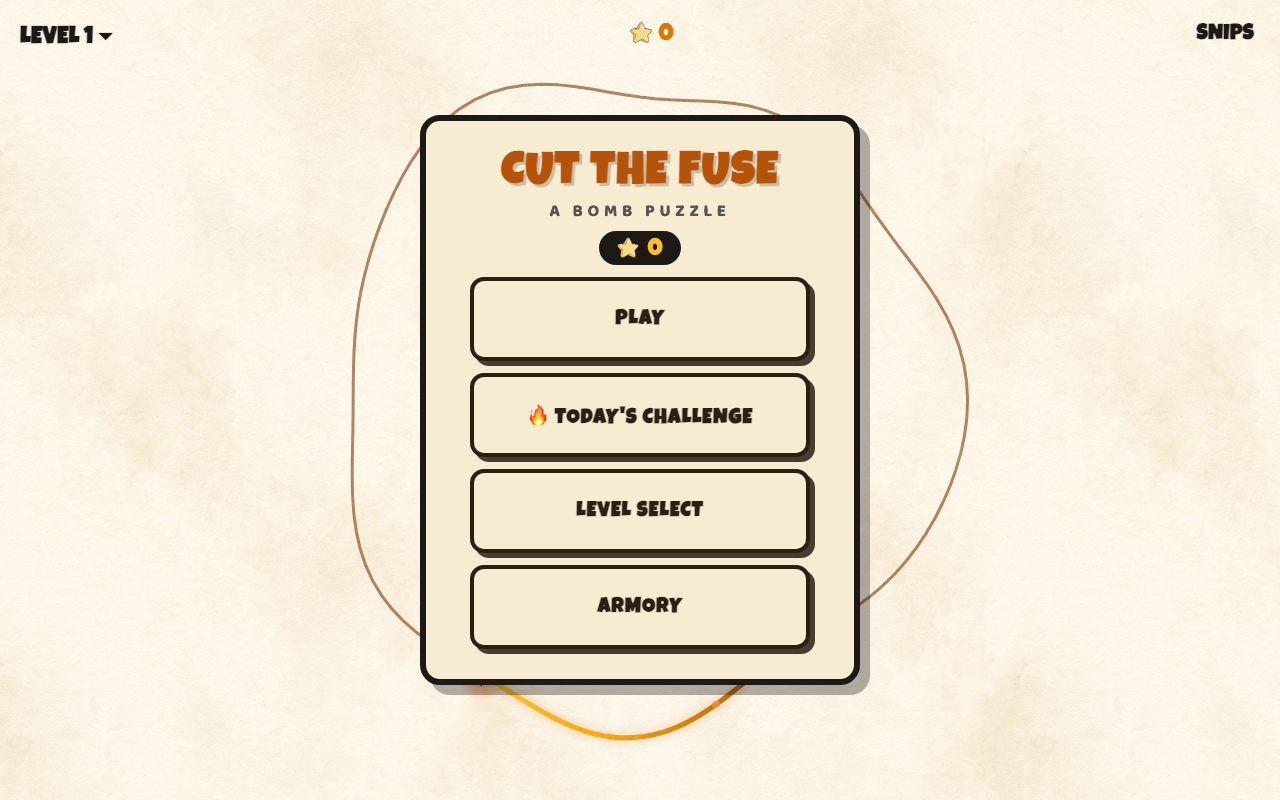
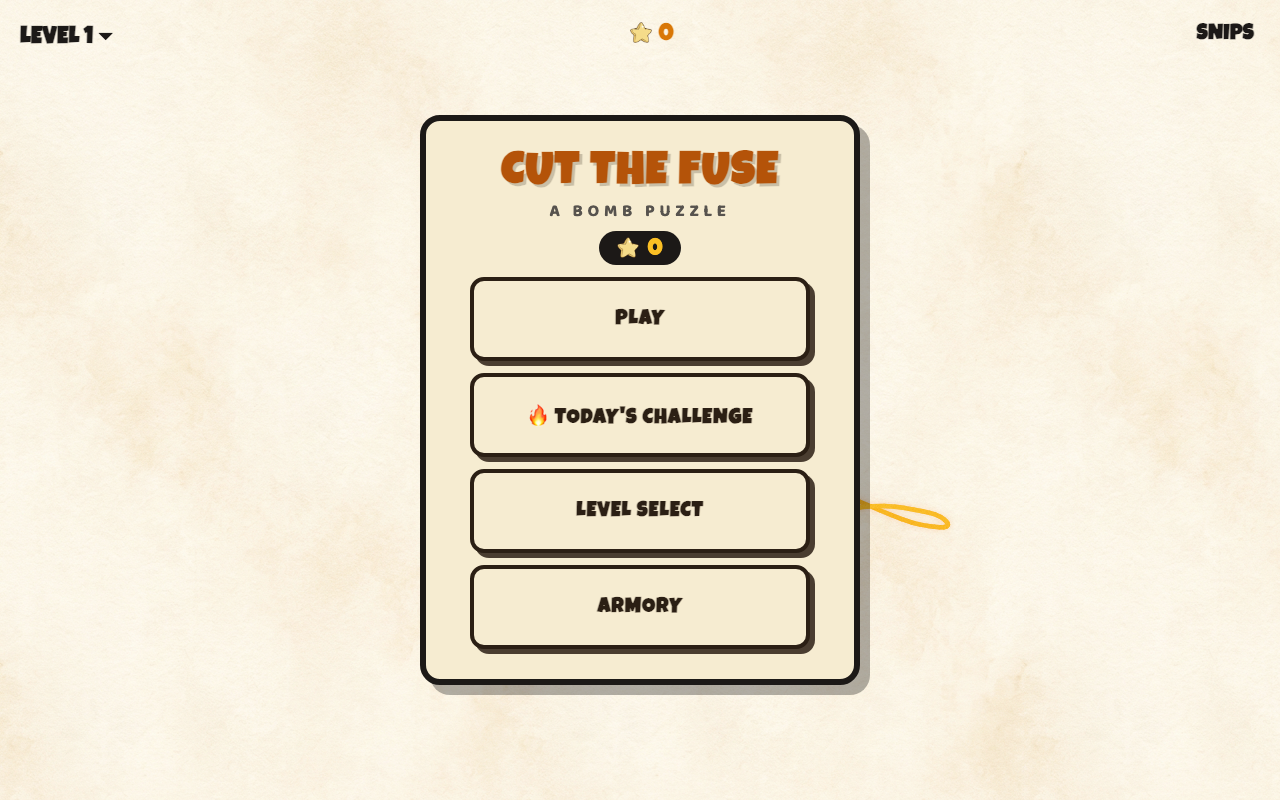
Rework the home-screen spark: organic loop, behind the card, slower
The ambient burn now wanders a random closed harmonic loop instead of a
figure-8, and it's drawn only on the game canvas so the opaque menu card
hides it when it passes behind — the fire weaves in and out without any
layer moving over the card. The orbit slows to ~15s and the wick keeps
the in-game look: amber live wire ahead of the spark, dark ash trail
behind, ember glow and retro spark head at the burn front.

diff --git a/src/engine/Renderer.js b/src/engine/Renderer.js
@@ -61,6 +61,11 @@ export class Renderer {
         this._pending = new Set();
         this._onAssetsReady = null;
         this._assetOk = new Map(); // src -> boolean (exists), cached per session
+        // Home-screen ambient spark state (drawn while the hub is up).
+        this._menuSparkLastT = null;
+        this._menuParticles = [];
+        this._menuPath = null; // organic closed loop (built lazily so it's random per visit)
+        this.menuCard = null; // hub DOM element the spark weaves behind (wired by main.js)
     }
 
     // ---- Responsive sizing ------------------------------------------------------
@@ -179,90 +184,237 @@ export class Renderer {
         ctx.restore();
     }
 
-    /** Home-screen ambient: a burning spark loops around and behind the menu
-     *  card while the hub is up (no level loaded yet). The hub pauses the game,
-     *  so frameCount is frozen — the whole effect runs on wall-clock time. */
+    /** Home-screen ambient: a burning spark wanders a random organic loop and
+     *  weaves BEHIND the menu card while the hub is up (no level loaded yet).
+     *  The hub pauses the game, so frameCount is frozen — the whole effect runs
+     *  on wall-clock time.
+     *
+     *  The burn matches the in-game wick exactly: an amber "live wire" sits
+     *  AHEAD of the spark (hot at the burn front, cooling toward the far side)
+     *  and a flat dark ash trail follows BEHIND it, so the spark chases the
+     *  orange the way it chases the banana in play. The path is a random closed
+     *  harmonic loop (not a figure-8) built once per visit, and it's drawn only
+     *  on the game canvas — the opaque menu card hides whatever passes behind
+     *  it, so the fire appears to weave in and out of the card. */
     _drawMenuSpark() {
         const ctx = this.ctx;
         const t = performance.now() / 16.667; // wall-clock "frames"
-        const cx = this.width / 2;
-        const cy = this.height / 2;
-        // A tall wobbling loop: rx keeps the orbit behind the card's sides while
-        // ry pushes the top/bottom arcs out past the card, so the spark is
-        // visible sweeping over/under it and dives behind between.
-        const rx = Math.min(this.width * 0.30, Math.max(150, this.width * 0.24));
-        const ry = Math.min(this.height * 0.46, Math.max(240, this.height * 0.40));
 
+        if (!this._menuPath) this._buildMenuPath();
+        const P = this._menuPath;
+
+        // Closed loop built from a few random harmonics. All frequencies are
+        // integers so the wire stays seamless across the u=0 seam, and the
+        // coefficients are normalized so the loop stays within the base radii.
+        const raw = (u) => {
+            const th = u * Math.PI * 2;
+            const nx = (Math.cos(th + P.p1) + P.c2 * Math.cos(2 * th + P.p2) + P.c3 * Math.cos(3 * th + P.p3)) * P.sx;
+            const ny = (Math.sin(th + P.q1) + P.s2 * Math.sin(2 * th + P.q2) + P.s3 * Math.sin(3 * th + P.q3)) * P.sy;
+            return { x: P.cx + nx * P.rx, y: P.cy + ny * P.ry };
+        };
+        const seed = 7;
         const at = (u) => {
-            const a = u * Math.PI * 2;
-            const wob = 1 + 0.05 * Math.sin(a * 3 + 1.7) + 0.032 * Math.sin(a * 5 + 0.4) + 0.018 * Math.sin(a * 7 + 2.9);
-            return { x: cx + Math.cos(a) * rx * wob, y: cy + Math.sin(a) * ry * wob };
+            const p = raw(u);
+            const tg = this._tangentAt(raw, u);
+            const amp = 0.35 * Math.sin(u * 27 * Math.PI * 2 + seed) + 0.15 * Math.sin(u * 9 * Math.PI * 2 + seed * 2);
+            return { x: p.x - tg.y * amp, y: p.y + tg.x * amp };
         };
 
-        const loopFrames = 520; // one full orbit ≈ 8.7s
+        const loopFrames = 900; // one full orbit ≈ 15s
         const headU = (t / loopFrames) % 1;
         const head = at(headU);
+        const drift = 0.15 * Math.sin(t * 0.05 + headU * 2);
+        const dt = this._menuSparkLastT == null ? 1 : Math.max(0.2, Math.min(3, t - this._menuSparkLastT));
+        this._menuSparkLastT = t;
+
+        const S = { at, raw, headU, head, t, drift, seed };
+
+        this._drawMenuBurn(ctx, S);
+        this._drawMenuParticles(t, dt, head);
+    }
+
+    /** Build the random organic loop once per visit. Radii reach past the card
+     *  edges so the fire is visible sweeping out into the paper, and the
+     *  harmonics dip it back through the card's middle so it hides behind. */
+    _buildMenuPath() {
+        const rect = this._menuCardRect();
+        const cx = rect.x + rect.w / 2;
+        const cy = rect.y + rect.h / 2;
+        const rx = Math.min(rect.w * 0.75, Math.max(rect.w * 0.55, this.width * 0.34));
+        const ry = Math.min(rect.h * 0.75, Math.max(rect.h * 0.55, this.height * 0.38));
+        const rand2 = () => (0.2 + Math.random() * 0.35) * (Math.random() > 0.5 ? 1 : -1);
+        const rand3 = () => (0.08 + Math.random() * 0.22) * (Math.random() > 0.5 ? 1 : -1);
+        const c2 = rand2(), c3 = rand3(), s2 = rand2(), s3 = rand3();
+        const sx = 1 / (1 + Math.abs(c2) + Math.abs(c3));
+        const sy = 1 / (1 + Math.abs(s2) + Math.abs(s3));
+        this._menuPath = {
+            cx, cy, rx, ry, c2, c3, s2, s3, sx, sy,
+            p1: Math.random() * Math.PI * 2,
+            p2: Math.random() * Math.PI * 2,
+            p3: Math.random() * Math.PI * 2,
+            q1: Math.random() * Math.PI * 2,
+            q2: Math.random() * Math.PI * 2,
+            q3: Math.random() * Math.PI * 2,
+        };
+    }
+
+    /** Bounding box of the card the spark weaves around (logical CSS px). Falls
+     *  back to a centered box when no card is wired up (headless/stub context). */
+    _menuCardRect() {
+        if (this.menuCard && typeof this.menuCard.getBoundingClientRect === "function") {
+            const r = this.menuCard.getBoundingClientRect();
+            if (r.width > 0 && r.height > 0) return { x: r.x, y: r.y, w: r.width, h: r.height };
+        }
+        const w = Math.min(440, this.width * 0.6);
+        const h = Math.min(520, this.height * 0.7);
+        return { x: (this.width - w) / 2, y: (this.height - h) / 2, w, h };
+    }
+
+    /** Unit tangent to the raw path at u (numerical, handles the periodic wrap). */
+    _tangentAt(raw, u) {
+        const a = raw(u);
+        const b = raw(u + 0.003);
+        const dx = b.x - a.x, dy = b.y - a.y;
+        const len = Math.hypot(dx, dy) || 1;
+        return { x: dx / len, y: dy / len };
+    }
+
+    /** The in-game live-wire amber ramp, sampled per-point by distance ahead of
+     *  the spark: hot at the burn front, cooling toward the far side. */
+    _menuAmberColor(d, drift) {
+        const stops = [
+            [0.0, 245, 158, 11], // #f59e0b
+            [0.35 + drift, 251, 191, 36], // #fbbf24
+            [0.65 + drift, 217, 119, 6], // #d97706
+            [1.0, 180, 83, 9], // #b45309
+        ];
+        let i = 1;
+        while (i < stops.length - 1 && d > stops[i][0]) i++;
+        const [t0, r0, g0, b0] = stops[i - 1];
+        const [t1, r1, g1, b1] = stops[i];
+        const f = t1 === t0 ? 0 : Math.min(1, Math.max(0, (d - t0) / (t1 - t0)));
+        const mix = (a, b) => Math.round(a + (b - a) * f);
+        return `rgb(${mix(r0, r1)}, ${mix(g0, g1)}, ${mix(b0, b1)})`;
+    }
+
+    /** Intersect two circular arcs [a0,a1] and [b0,b1] (either may wrap around
+     *  u=1). Returns a list of non-wrapping [start,end] ranges, or null. */
+    _arcIntersect(a0, a1, b0, b1) {
+        const norm = (x) => ((x % 1) + 1) % 1;
+        const ranges = (s, e) => {
+            s = norm(s);
+            e = norm(e);
+            return s <= e ? [[s, e]] : [[s, 1], [0, e]];
+        };
+        const out = [];
+        for (const [s1, e1] of ranges(a0, a1)) {
+            for (const [s2, e2] of ranges(b0, b1)) {
+                const s = Math.max(s1, s2);
+                const e = Math.min(e1, e2);
+                if (e - s > 1e-4) out.push([s, e]);
+            }
+        }
+        return out.length ? out : null;
+    }
+
+    /** Draw the menu wick using the exact in-game visuals: amber live wire
+     *  ahead of the spark, dark ash trail behind, ember glow at the burn front,
+     *  retro spark head. */
+    _drawMenuBurn(ctx, S) {
+        const { at, raw, headU, head, t, drift, seed } = S;
+        const n = 160;
 
         ctx.save();
         ctx.lineCap = "round";
         ctx.lineJoin = "round";
 
-        // The full loop as the unburnt fuse, drawn under the hot trail.
-        ctx.strokeStyle = "rgba(120, 53, 15, 0.65)";
-        ctx.lineWidth = 3;
+        // Soft glow pass over the whole loop (matches the wire's shadow).
+        ctx.shadowColor = "rgba(249, 115, 22, 0.5)";
+        ctx.shadowBlur = 6;
+        ctx.strokeStyle = "rgba(245, 158, 11, 0.5)";
+        ctx.lineWidth = 4.5;
         ctx.beginPath();
-        for (let i = 0; i <= 120; i++) {
-            const p = at(i / 120);
-            if (i === 0) ctx.moveTo(p.x, p.y);
-            else ctx.lineTo(p.x, p.y);
-        }
-        ctx.stroke();
-
-        // Live burn: the arc just behind the head glows and cools off.
-        const trail = 0.15;
-        const tail = at(headU - trail);
-        ctx.shadowColor = "rgba(249, 115, 22, 0.45)";
-        ctx.shadowBlur = 10;
-        const grad = this._linearGradient(head.x, head.y, tail.x, tail.y);
-        grad.addColorStop(0, "#fbbf24");
-        grad.addColorStop(0.45, "#f59e0b");
-        grad.addColorStop(1, "#b45309");
-        ctx.strokeStyle = grad;
-        ctx.lineWidth = 5;
-        ctx.beginPath();
-        const steps = 26;
-        for (let i = 0; i <= steps; i++) {
-            const p = at(headU - trail + (trail * i) / steps);
+        for (let i = 0; i <= n; i++) {
+            const p = at(i / n);
             if (i === 0) ctx.moveTo(p.x, p.y);
             else ctx.lineTo(p.x, p.y);
         }
         ctx.stroke();
         ctx.shadowBlur = 0;
 
-        // Ember glow at the burn front.
-        const ember = this._radialGradient(head.x, head.y, 0, head.x, head.y, 26);
-        ember.addColorStop(0, "rgba(254, 240, 138, 0.95)");
-        ember.addColorStop(0.4, "rgba(249, 115, 22, 0.55)");
+        // Crisp amber wire, colored per-point by distance ahead of the spark.
+        ctx.lineWidth = 4.5;
+        for (let i = 0; i < n; i++) {
+            const sa = i / n;
+            const sb = sa + 1 / n;
+            const d = (((sa % 1) + 1) % 1 - headU + 1) % 1;
+            ctx.strokeStyle = this._menuAmberColor(d, drift);
+            ctx.beginPath();
+            const pa = at(sa);
+            const pb = at(sb);
+            ctx.moveTo(pa.x, pa.y);
+            ctx.lineTo(pb.x, pb.y);
+            ctx.stroke();
+        }
+
+        // Dark ash trail: the short arc just burned behind the spark.
+        const ashLen = 0.10;
+        const ashArc = this._arcIntersect(headU - ashLen, headU, 0, 1);
+        if (ashArc) {
+            ctx.strokeStyle = "rgba(41, 37, 36, 0.85)";
+            ctx.lineWidth = 3;
+            for (const [as0, as1] of ashArc) {
+                const an = Math.max(6, Math.ceil((as1 - as0) * 160));
+                ctx.beginPath();
+                for (let i = 0; i <= an; i++) {
+                    const u = as0 + ((as1 - as0) * i) / an;
+                    const p0 = raw(u);
+                    const tg = this._tangentAt(raw, u);
+                    const amp = Math.sin(u * 41 * Math.PI * 2 + seed * 1.7) * 1.1 + Math.sin(u * 13 * Math.PI * 2 + seed) * 0.5;
+                    const p = { x: p0.x - tg.y * amp, y: p0.y + tg.x * amp };
+                    if (i === 0) ctx.moveTo(p.x, p.y);
+                    else ctx.lineTo(p.x, p.y);
+                }
+                ctx.stroke();
+            }
+        }
+
+        // Ember glow + spark head at the burn front (game look).
+        const ember = this._radialGradient(head.x, head.y, 0, head.x, head.y, 16);
+        ember.addColorStop(0, "rgba(254, 240, 138, 0.9)");
+        ember.addColorStop(0.35, "rgba(249, 115, 22, 0.55)");
         ember.addColorStop(1, "rgba(249, 115, 22, 0)");
         ctx.fillStyle = ember;
         ctx.beginPath();
-        ctx.arc(head.x, head.y, 26, 0, Math.PI * 2);
+        ctx.arc(head.x, head.y, 16, 0, Math.PI * 2);
         ctx.fill();
 
-        // Ember dots twinkling along the trail.
-        for (let k = 1; k <= 3; k++) {
-            const e = at(headU - trail * k * 0.28);
-            const alpha = 0.35 + 0.3 * Math.sin(t * 0.12 + k * 2.1);
-            if (alpha <= 0) continue;
-            ctx.fillStyle = `rgba(251, 146, 60, ${alpha.toFixed(3)})`;
-            ctx.beginPath();
-            ctx.arc(e.x, e.y, 2.5 + (k % 2) * 1.5, 0, Math.PI * 2);
-            ctx.fill();
-        }
-
-        // The spark head rides on top.
         this._drawRetroSpark(head.x, head.y, t);
         ctx.restore();
+    }
+
+    /** Game-style dark ash flecks trailing the menu spark. */
+    _drawMenuParticles(t, dt, head) {
+        const list = this._menuParticles;
+        // Spawn like the game's burn: ~60% chance per frame of a dark fleck.
+        if (Math.random() > 0.4) {
+            list.push({
+                x: head.x, y: head.y,
+                vx: (Math.random() - 0.5) * 2.8,
+                vy: (Math.random() - 0.5) * 2.8,
+                life: 1.0,
+                size: Math.random() * 4 + 2,
+                color: "#292524",
+            });
+        }
+        for (let i = list.length - 1; i >= 0; i--) {
+            const p = list[i];
+            p.x += p.vx * dt;
+            p.y += p.vy * dt;
+            p.life -= 0.04 * dt;
+            if (p.life <= 0) list.splice(i, 1);
+        }
+        for (const p of list) this._drawParticleStar(p);
     }
 
     _drawHint(game) {

diff --git a/src/main.js b/src/main.js
@@ -682,6 +682,7 @@ async function boot() {
     // Home screen first — the player picks PLAY to load their level. Loading
     // happens lazily so a returning player sees their star bank before diving in.
     updateUi();
+    renderer.menuCard = $("modal-menu");
     openMenu();
 
     // Load baked audio cues from assets/audio/ (silently skips un-baked cues).
